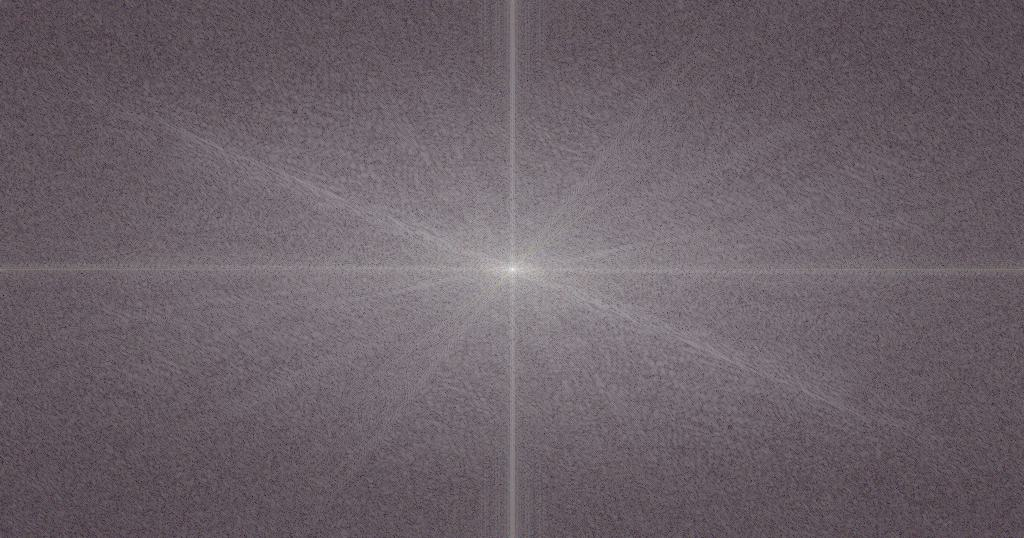
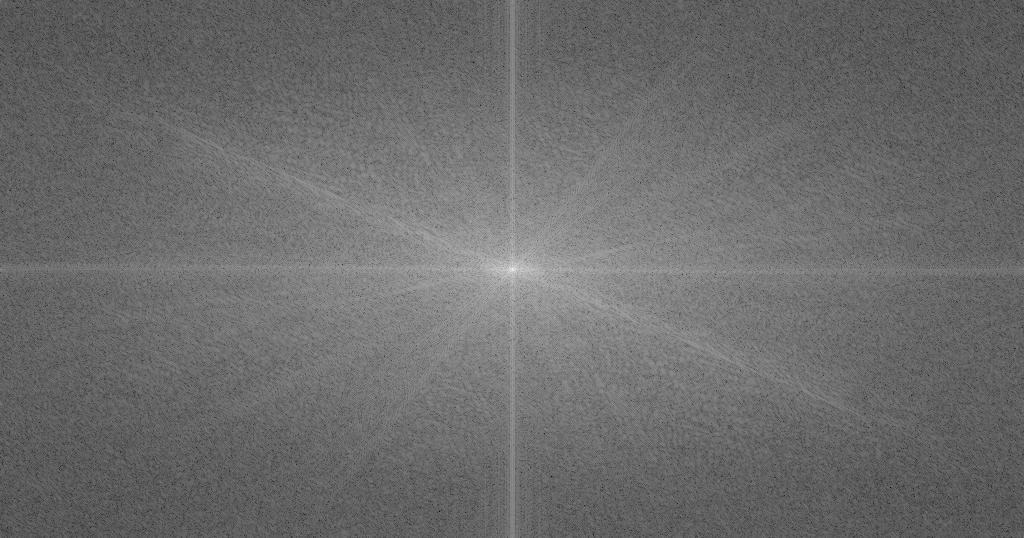
Refactoring for ease of use for grader

diff --git a/code/frequencies.py b/code/frequencies.py
@@ -50,7 +50,9 @@ def low_pass_img(img, kernel_size=25, sigma=1):
 
 def high_pass_img(img, kernel_size=25, sigma=1):
     img_low_pass = low_pass_img(img, kernel_size, sigma)
-    return img - img_low_pass
+    img_high_pass = img - img_low_pass
+    img_high_pass = ut.min_max_normalize_image(img_high_pass)
+    return img_high_pass
     
 
 
@@ -83,21 +85,18 @@ def hybrid_img(img1, img2, kernel_size=25, sigma_1=1, sigma_2=1, visualize=False
 
 # fft magnitude spectrum for color images
 def compute_fft_magnitude_spectrum(img):
-    channels = []
-    for c in range(img.shape[2]):
-        freq = np.log(np.abs(np.fft.fftshift(np.fft.fft2(img[..., c]))))
-        freq = ut.min_max_normalize_image(freq)
-        channels.append(freq)
-    return np.dstack(channels) 
+    freq = np.log(np.abs(np.fft.fftshift(np.fft.fft2(img[..., 0]))))
+    freq = ut.min_max_normalize_image(freq)
+    return freq 
 
-def test_sharpen_img():
+def test_sharpen_img(img, outpath):
     alphas = [0.5, 0.75, 1, 2, 2.5]
     for idx, alpha_i in enumerate(alphas):
-        sharpen_i = apply_unsharp_mask_filter(taj_img, alpha_i, kernel_size=15, sigma=1)
-        ut.write_output(sharpen_i, f"taj_sharpen_alpha_{idx}")
+        sharpen_i = apply_unsharp_mask_filter(img, alpha_i, kernel_size=15, sigma=1)
+        ut.write_output(sharpen_i, f"{outpath}_sharpen_alpha_{idx}")
 
 def test_hybrid_img(img1, img2, outpath, sigma_1=1, sigma_2=1, crop_params=None, visualize=False):
-    hybrid = hybrid_img(img1, img2, kernel_size=25, sigma_1=sigma_1, sigma_2=sigma_2, visualize=True)
+    hybrid = hybrid_img(img1, img2, kernel_size=25, sigma_1=sigma_1, sigma_2=sigma_2, visualize=visualize)
 
     if crop_params is not None:
         hybrid = ut.crop(hybrid, crop_params[0], crop_params[1], crop_params[2], crop_params[3])
@@ -124,22 +123,19 @@ def test_hybrid_frequencies(img1, img2, hybrid_img, outpaths):
     ut.write_output(img1_low_pass_freq, outpaths[3])
     ut.write_output(img2_high_pass_freq, outpaths[4])
 
+def test_part_sharpening_and_hybrid_images():
+    test_sharpen_img(taj_img, "taj")
+    ut.write_output(high_pass_img(taj_img, kernel_size=15, sigma=1), "taj_high_pass.jpg")
+    test_sharpen_img(lizard_img, "lizard")
+    test_hybrid_img(derek_img, nutmeg_img, "derekxnutmeg.jpg", 4, 3)
+    test_hybrid_img(mononoke_img, eboshi_img, "mononokexeboshi2.jpg", 4, 3.5, crop_params=[0.1, 0, 0.2, 0], visualize=True)
+    test_hybrid_img(heisenburg_img, walter_img, "walterxheisenburg.png", 5, 3.5)
+    outpaths = ["mononoke_freq.jpg", "eboshi_freq.jpg", "mononokexeboshi_freq.jpg", "mononoke_low_pass_freq.jpg", "eboshi_high_pass_freq.jpg"]
+    test_hybrid_frequencies(mononoke_img, eboshi_img, mononoke_eboshi_hybrid_img, outpaths)
 
-# Sharpening the Taj
-#test_sharpen_img()
+# Run to test all functions for sharpening and hybrid images (2.1, 2.2)
+def __main__():
+    test_part_sharpening_and_hybrid_images()
 
-# Derek and Nutmeg
-#test_hybrid_img(derek_img, nutmeg_img, "derekxnutmeg.jpg", 4, 3)
-
-# Mononoke and Eboshi
-#test_hybrid_img(mononoke_img, eboshi_img, "mononokexeboshi2.jpg", 4, 3.5, crop_params=[0.1, 0, 0.2, 0], visualize=True)
-
-# Walter and Heisenburg
-#test_hybrid_img(heisenburg_img, walter_img, "walterxheisenburg.png", 5, 3.5)
-
-# Frequency Components
-#outpaths = ["mononoke_freq.jpg", "eboshi_freq.jpg", "mononokexeboshi_freq.jpg", "mononoke_low_pass_freq.jpg", "eboshi_high_pass_freq.jpg"]
-#test_hybrid_frequencies(mononoke_img, eboshi_img, mononoke_eboshi_hybrid_img, outpaths)
-
-
-
+if __name__ == "__main__":
+    __main__()

diff --git a/code/filters.py b/code/filters.py
@@ -115,14 +115,14 @@ def create_edge_image_smoothed(img, kernel_size=25, sigma=1, threshold=1e-1):
     return create_edge_image(img_smoothed, threshold) / 255.0
     
 def test_convolution():
-    zach_img_low_pass = convolve2d(zach_img, box_filter)
+    zach_img_low_pass = convolve2d_two_loops(zach_img, box_filter)
     ut.write_output(zach_img_low_pass, "zach_low_pass.jpg")
 
-def test_finite_difference_operator():
-    cameraman_dx = convolve2d(camera_img, D_x)
-    cameraman_dy = convolve2d(camera_img, D_y)
-    ut.write_output(cameraman_dx, "cameraman_dx.jpg")
-    ut.write_output(cameraman_dy, "cameraman_dy.jpg")
+def test_finite_difference_operator(img, imname):
+    cameraman_dx = convolve2d(img, D_x)
+    cameraman_dy = convolve2d(img, D_y)
+    ut.write_output(cameraman_dx, f"{imname}_dx.jpg")
+    ut.write_output(cameraman_dy, f"{imname}_dy.jpg")
 
 def test_edge_image():
     img_Dx = convolve2d(camera_img, D_x, mode='same')
@@ -153,16 +153,28 @@ def test_binary_edge_image_denoised():
         edge_img_i = create_edge_image_smoothed(camera_img, sigma=sigma_i, threshold=threshold)
         ut.write_output(edge_img_i, f"cameraman_edge_img_smoothed_sigma={idx}")
 
-# Test convolution implementations and runtimes
-#compare_convolve_runtimes()
-
-# Test Finite Difference Operators
-#test_finite_difference_operator()
-
-# Test Naive Edge Image
-#test_binary_edge_image()
-
-# Test Denoised/Derivative of Gaussian Edge Image
-#test_binary_edge_image_denoised()
+def test_DoG_filter_images():
+    G = cv.getGaussianKernel(25, 1)
+    G_kernel = np.outer(G, G.T)
+    DoG_x = convolve2d(G_kernel, D_x)
+    DoG_y = convolve2d(G_kernel, D_y)
+    ut.write_output(DoG_x, "DoG_x.jpg")
+    ut.write_output(DoG_y, "DoG_y.jpg")
 
 
+def test_part_1():
+    test_convolution()
+    compare_convolve_runtimes()
+    test_finite_difference_operator(zach_img, "zach")
+    test_finite_difference_operator(camera_img, "cameraman")
+    test_edge_image()
+    test_binary_edge_image()
+    test_binary_edge_image_denoised()
+    test_DoG_filter_images()
+
+# Run to test all functions for filters (1.1, 1.2, 1.3)
+def __main__():
+    test_part_1()
+
+if __name__ == "__main__":
+    __main__()

diff --git a/code/stack.py b/code/stack.py
@@ -58,26 +58,27 @@ def show_stack(stack):
         plt.title(f"Level {i}")
     plt.show()
     
+def test_stacks():
+    img1_name = "data/spline/apple.jpeg"
+    img2_name = "data/spline/orange.jpeg"
+    img1 = ut.read_in_image(img1_name)
+    img2 = ut.read_in_image(img2_name)
+    apple_stack = build_gaussian_stack(img1, levels=4, sigma_0=6, kernel_0=7)
+    orange_stack = build_gaussian_stack(img2, levels=4, sigma_0=6, kernel_0=7)
+    show_stack(apple_stack)
+    show_stack(orange_stack)
+    apple_stack_laplacian = build_laplacian_stack(img1, levels=6, sigma_0=6, kernel_0=7)
+    orange_stack_laplacian = build_laplacian_stack(img2, levels=6, sigma_0=6, kernel_0=7)
+    show_stack(apple_stack_laplacian)
+    show_stack(orange_stack_laplacian)
 
+# Run to test all functions for stacks (2.3, 2.4)
+def __main__():
+    test_stacks()
 
-# Visualize stacks
-# img1_name = "data/spline/apple.jpeg"
-# img2_name = "data/spline/orange.jpeg"
+if __name__ == "__main__":
+    __main__()
 
-# img1 = ut.read_in_image(img1_name)
-# img2 = ut.read_in_image(img2_name)
-
-# Gaussian
-# apple_stack = build_gaussian_stack(img1, levels=4, sigma_0=6, kernel_0=7)
-# orange_stack = build_gaussian_stack(img2, levels=4, sigma_0=6, kernel_0=7)
-# show_stack(apple_stack)
-# show_stack(orange_stack)
-
-# Laplacian
-# apple_stack_laplacian = build_laplacian_stack(img1, levels=4, sigma_0=6, kernel_0=7)
-# orange_stack_laplacian = build_laplacian_stack(img2, levels=4, sigma_0=6, kernel_0=7)
-# show_stack(apple_stack_laplacian)
-# show_stack(orange_stack_laplacian)
 
 
 

diff --git a/code/blend.py b/code/blend.py
@@ -124,14 +124,17 @@ def test_multires_blend(img1, img2, mask, outpath, levels=4, sigma_blend=4, visu
     blended_img = multires_blend(img1, img2, mask_3ch, levels, sigma_blend, visualize)
     ut.write_output(blended_img, outpath)
 
-# Black Hole Sun
-#test_multires_blend(black_hole_img, sun_img, black_hole_mask, "black_hole_sun_2.jpg", 5, 8)
+def test_blend_images():
+    test_multires_blend(black_hole_img, sun_img, black_hole_mask, "black_hole_sun_2.jpg", 5, 8)
+    test_multires_blend(img1, img2, apple_mask, "oraple_final.jpg", levels=3, sigma_blend=6, visualize=True)
+    test_multires_blend(night_sky_img, road_img, road_mask, outpath="night_road.jpg", levels=4, sigma_blend=6, visualize=False)
 
-# Oraple. Pass visualize as True to get the 3.42 Figure
-test_multires_blend(img1, img2, apple_mask, "oraple_final.jpg", levels=3, sigma_blend=6, visualize=True)
+# Run to test all functions for blending (2.3, 2.4)
+def __main__():
+    test_blend_images()
 
-# Night Road
-#test_multires_blend(night_sky_img, road_img, road_mask, outpath="night_road.jpg", levels=4, sigma_blend=6, visualize=False)
+if __name__ == "__main__":
+    __main__()
 
 
 

diff --git a/code/utils.py b/code/utils.py
@@ -5,11 +5,11 @@ import numpy as np
 from skimage.color import rgb2gray
 from skimage import img_as_float
 
-def write_output(image, imname):
-    os.makedirs("./output", exist_ok=True)
+def write_output(image, imname, outpath="final_output"):
+    os.makedirs(outpath, exist_ok=True)
 
     base_name = os.path.splitext(os.path.basename(imname))[0]
-    out_path = os.path.join("output", f"{base_name}.jpg")
+    out_path = os.path.join(outpath, f"{base_name}.jpg")
     plt.imsave(out_path, image, cmap='gray')
 
     print("Saved to ", out_path)
